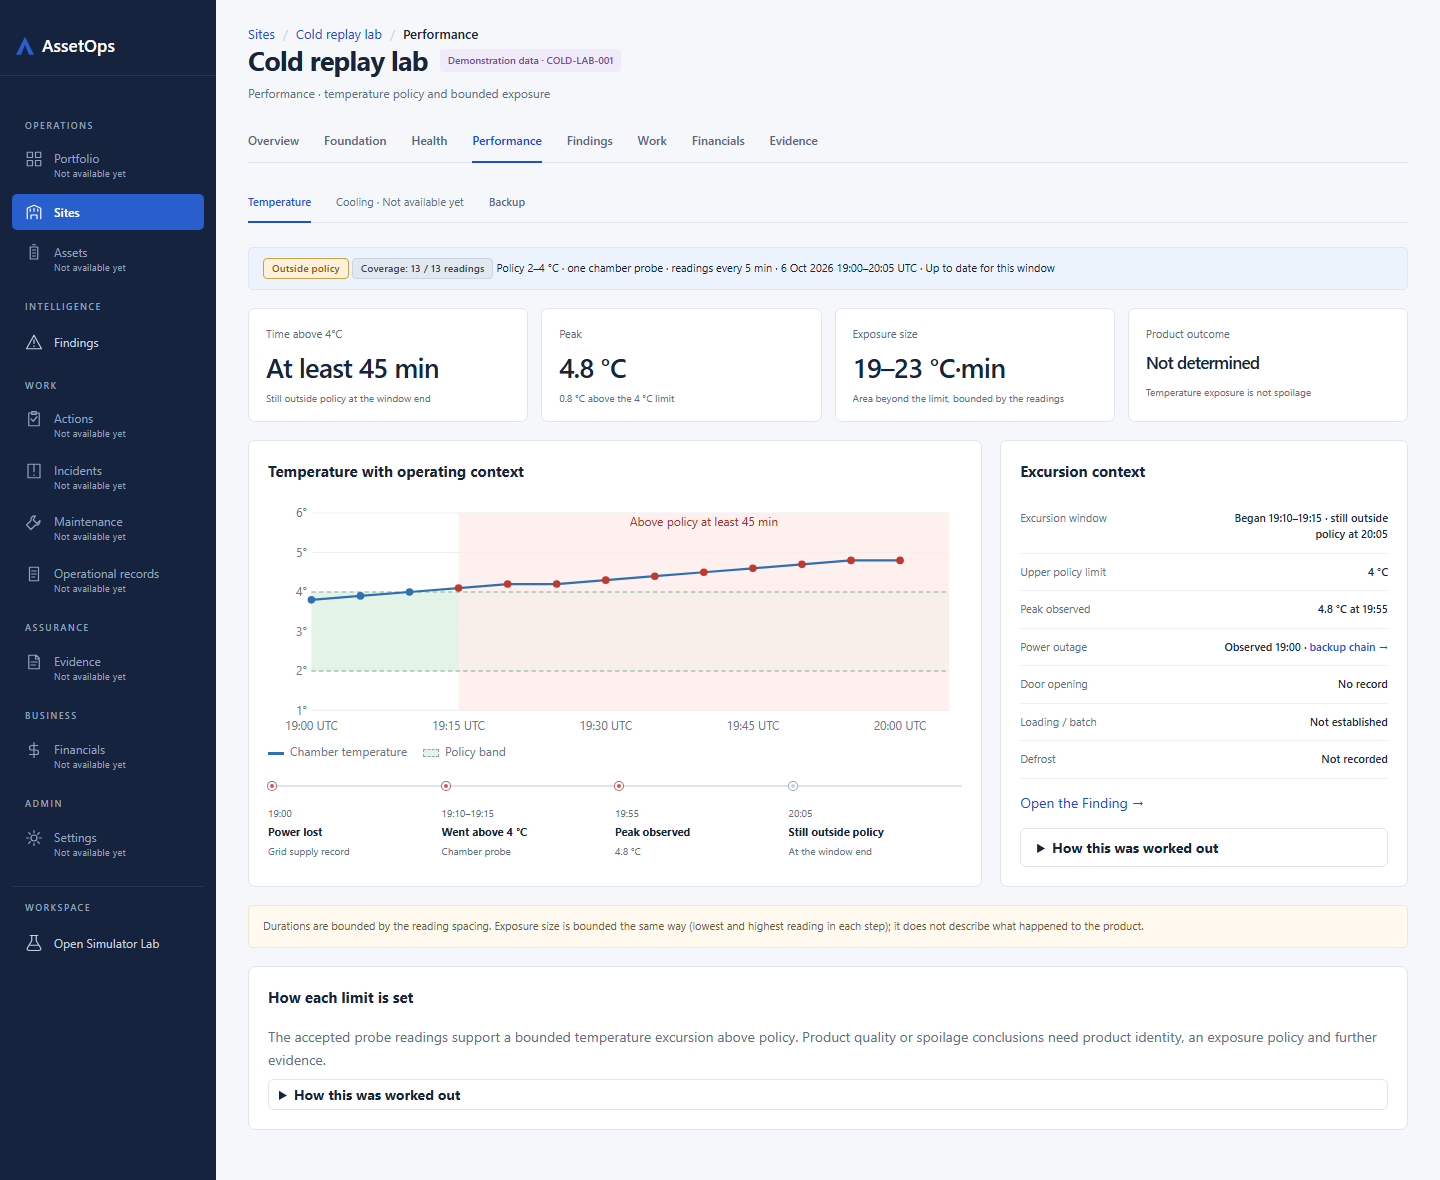
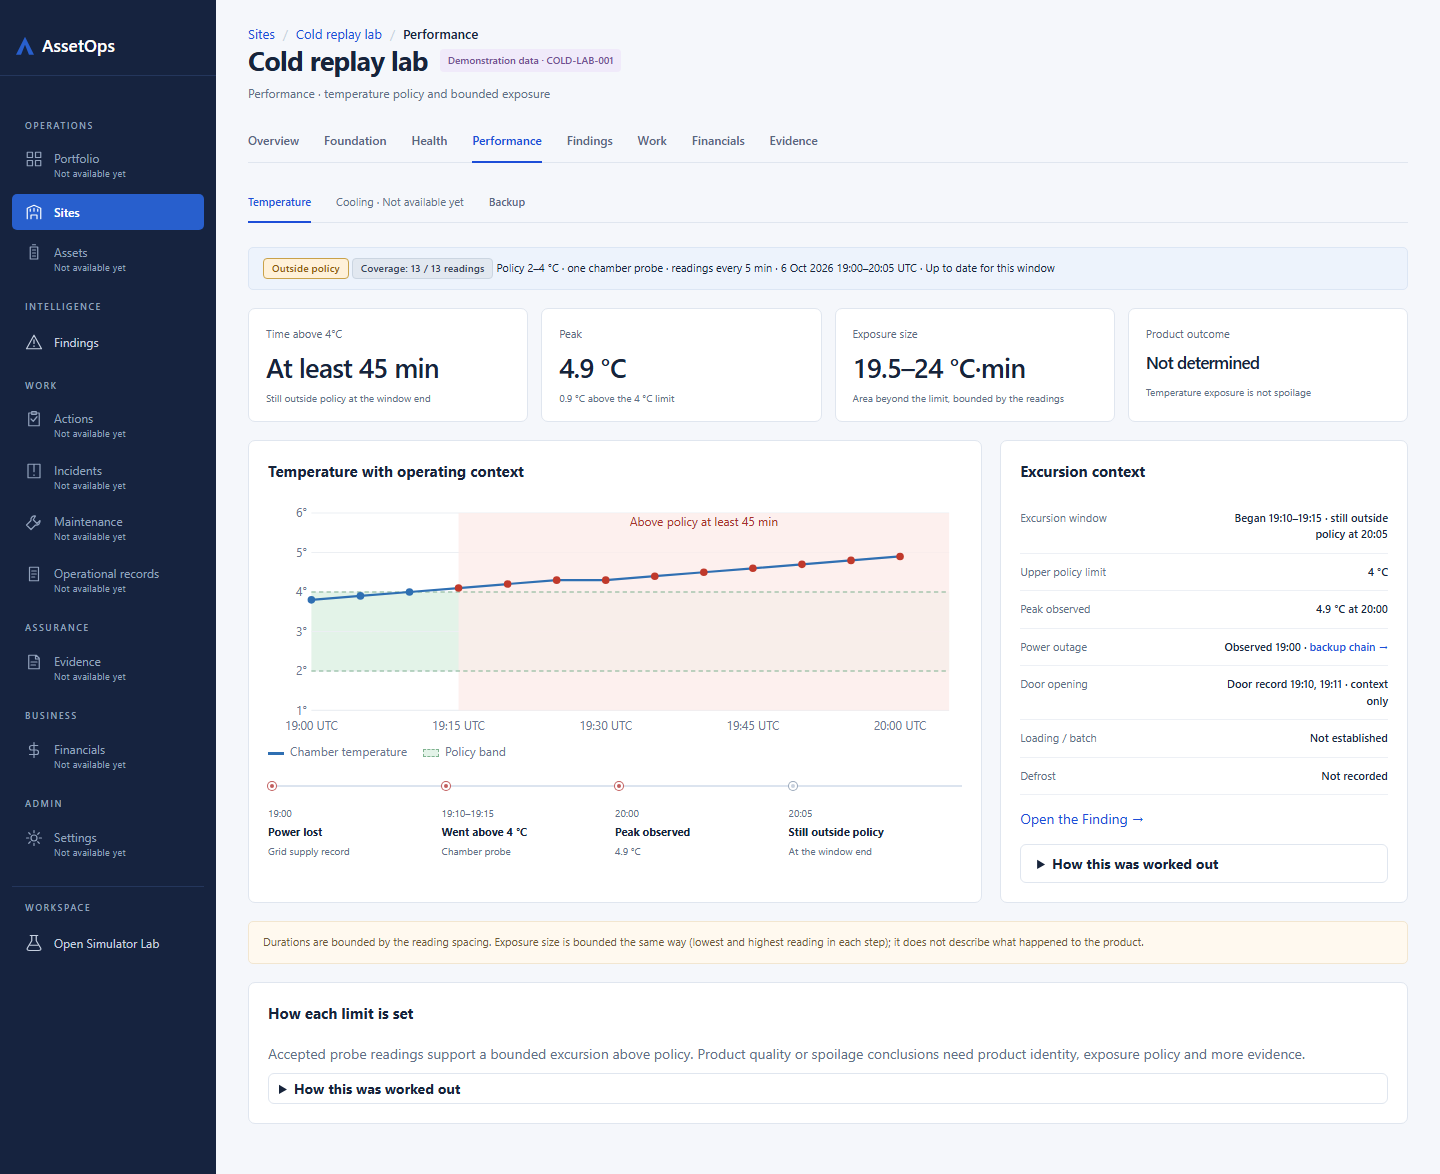
W2-03 follow-up: temperature recapture images

diff --git a/.agent/W2-03-followup-review-packet.md b/.agent/W2-03-followup-review-packet.md
@@ -35,7 +35,7 @@ coldbackup "Evidence by causal step" 554/332 unchanged (out of scope).
 
 ## Captures
 `.agent/W2-03-followup-evidence/` (`index.html`, `evidence.json`), `W1_REVISION` = capture-time head, 108/108 claims.
-Q2 recapture (temperature only): throwaway DB `w203fu2_test` seeded by backup-failed replay, API 9744, vite 6144, CDP 9754; DB dropped, servers stopped; captures in temp, not committed. Earlier captures: throwaway DB `w203fu_test` seeded excursion chain then W2-03 run (seed test deleted); API 9724, vite 6124, CDP 9734; DB dropped, servers stopped.
+Q2 recapture (temperature only): throwaway DB `w203fu2_test` seeded by backup-failed replay, API 9744, vite 6144, CDP 9754; DB dropped, servers stopped; images overwrite temperature-stocked-{1440,390}-{app,mock}.png in the evidence folder (evidence.json measurements for those pairs are from the earlier capture). Earlier captures: throwaway DB `w203fu_test` seeded excursion chain then W2-03 run (seed test deleted); API 9724, vite 6124, CDP 9734; DB dropped, servers stopped.
 Site COLD-LAB-001, window [2026-10-06T19:00Z, 20:05Z), start Finding ...000176, excursion Finding ...000170 (prefix 00000002-0000-4000-8000-).
 Cases: temperature and coldbackup stocked/empty (2026-10-05)/refused (from>to); cold-finding stocked/refused (unknown ID); cold-finding-excursion stocked. Each at 1440 and 390, app + mock. Stocked 1440 temperature, excursion and coldbackup viewed. Green chip not visible in this seed (start failed, excursion); green proven in tests only.
 
